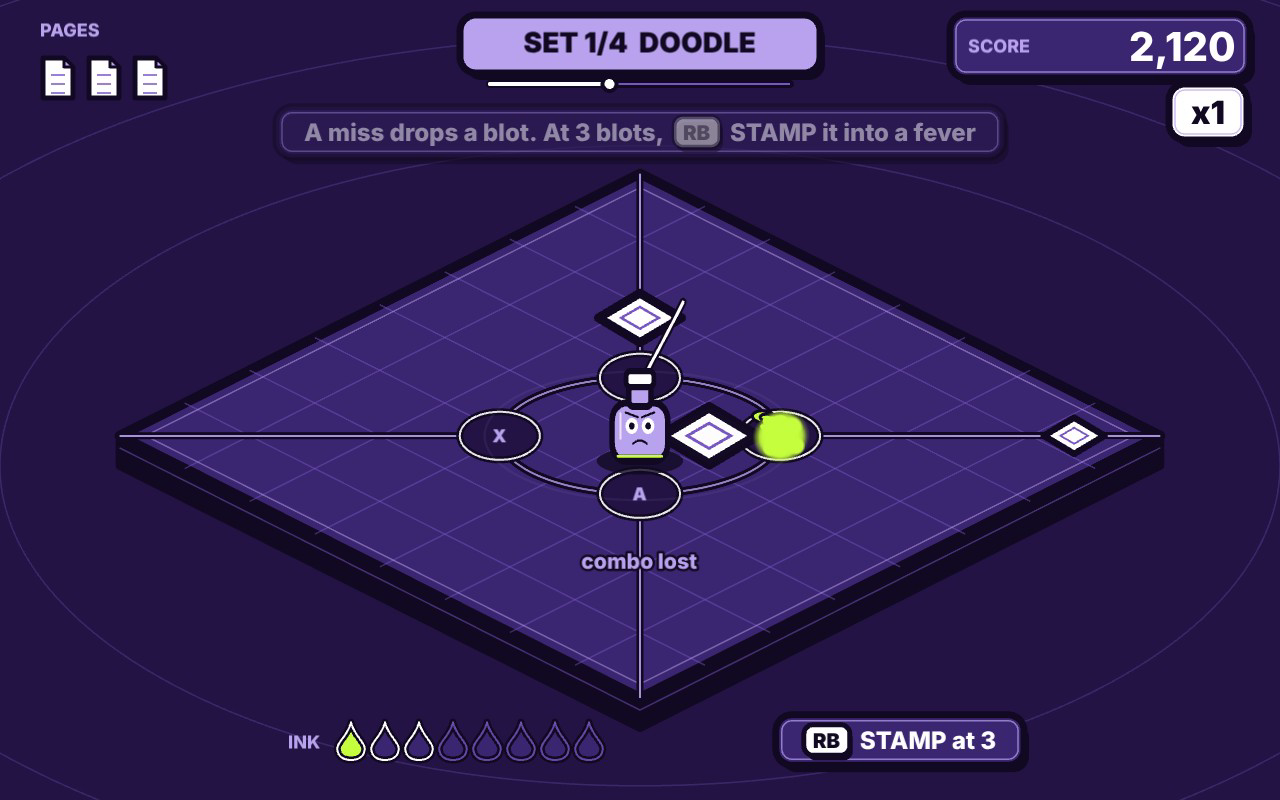
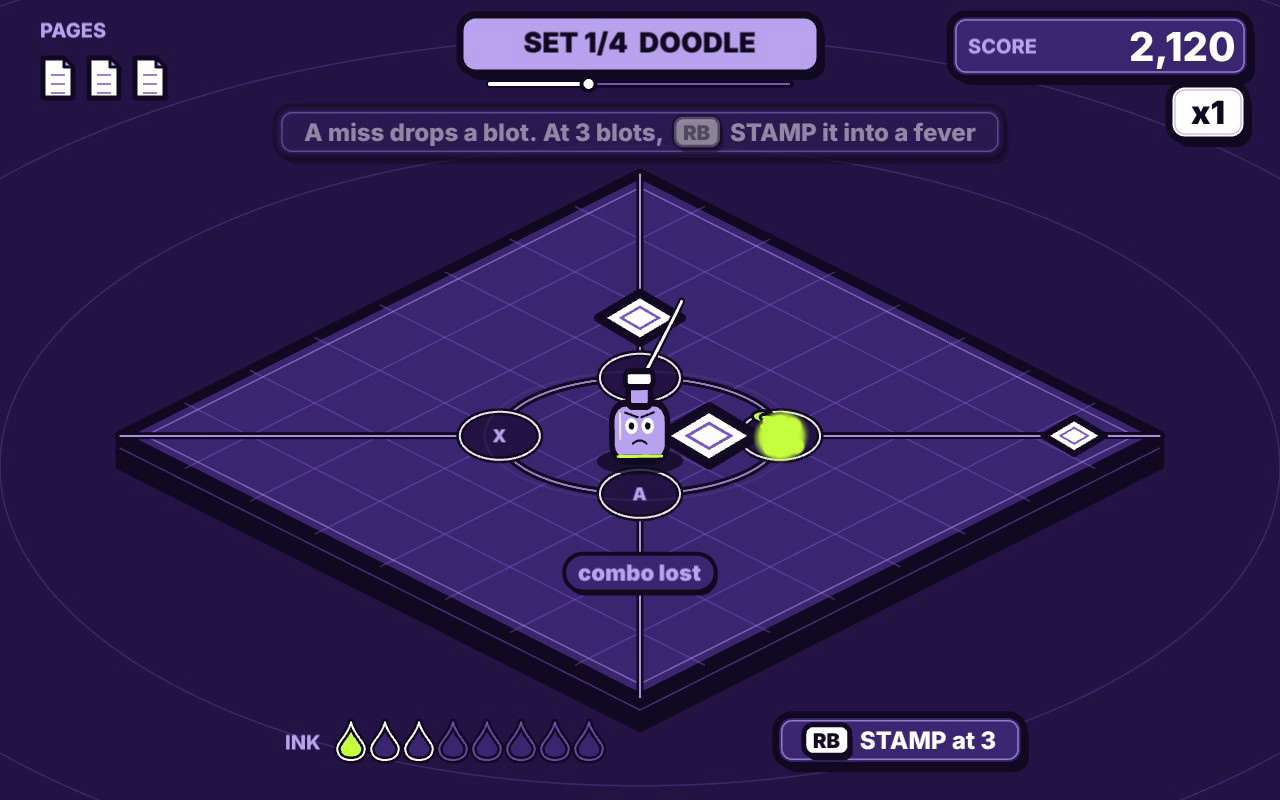
Blot Beat: pill feedback badges, tidy sets, juice-off crash fix, docs, final media
Claude-Session: https://claude.ai/code/session_011JBjUs38wG625x8qBQpJpi

diff --git a/src/protos/2026-10-30-blotbeat/index.ts b/src/protos/2026-10-30-blotbeat/index.ts
@@ -95,6 +95,24 @@ export function createPrototype(): Prototype {
 
   /** Run `fn` after `ms` on the juice clock (a tween on a dummy target, so it never collides with tweens on real objects). */
   const later = (ms: number, fn: () => void) => tween({ v: 0 }, { v: 1 }, ms, ease.linear, { onComplete: fn });
+  /** A feedback pill: text on a small ink-outlined badge that pops, rises and fades (feedback is part of the sticker UI, not loose text). */
+  function badgePop(text: string, x: number, y: number, fill: number, color: number, size = 22, ms = 560, rise = 34): void {
+    const c = new Container();
+    const t = label(text, size, color, { weight: '900' });
+    const w = t.width + 28;
+    const h = size * 1.7;
+    const g = new Graphics();
+    g.roundRect(-w / 2 + 2, -h / 2 + 4, w, h, h / 2).fill(C.ink);
+    g.roundRect(-w / 2, -h / 2, w, h, h / 2).fill(fill).stroke({ width: 4, color: C.ink, join: 'round' });
+    c.addChild(g, t);
+    c.position.set(x, y);
+    c.scale.set(0.4);
+    world.addChild(c);
+    tween(c, { scale: 1 }, 130, ease.outBack);
+    // one tween owns the destroy; the fade finishes before it so nothing touches a destroyed badge
+    tween(c, { y: y - rise }, ms, ease.outCubic, { onComplete: () => c.destroy() });
+    later(ms * 0.5, () => { if (!c.destroyed) tween(c, { alpha: 0 }, ms * 0.4, ease.linear); });
+  }
   const D = () => LANE_DIR;
   const FRAME_DT = 1 / 60;
 
@@ -345,7 +363,7 @@ export function createPrototype(): Prototype {
 
   function buildHud(): void {
     // pages (top left)
-    const pl = label('PAGES', 18, C.tint, { anchor: [0, 0.5] });
+    const pl = label('PAGES', 20, C.tint, { anchor: [0, 0.5] });
     pl.position.set(40, 30);
     ui.addChild(pl);
     pageIcons = [];
@@ -372,7 +390,7 @@ export function createPrototype(): Prototype {
     scoreText = label('0', 40, C.white, { anchor: [1, 0.5] });
     scoreText.position.set(1236, 46);
     ui.addChild(scoreText);
-    const scl = label('SCORE', 18, C.tint, { anchor: [0, 0.5] });
+    const scl = label('SCORE', 20, C.tint, { anchor: [0, 0.5] });
     scl.position.set(968, 46);
     ui.addChild(scl);
     comboText = label('', 22, C.tint, { anchor: [1, 0.5] });
@@ -403,7 +421,7 @@ export function createPrototype(): Prototype {
     dropGs = [];
     const gap = Math.min(34, 460 / dropsMax);
     const x0 = 430 - ((dropsMax - 1) * gap) / 2 + 40;
-    const lab = label('INK', 18, C.tint, { anchor: [1, 0.5] });
+    const lab = label('INK', 20, C.tint, { anchor: [1, 0.5] });
     lab.position.set(x0 - 30, 742);
     dropsC.addChild(lab);
     for (let i = 0; i < dropsMax; i++) {
@@ -443,7 +461,7 @@ export function createPrototype(): Prototype {
       stampKey = key;
       stampC.removeChildren().forEach((c) => c.destroy());
       let plate: Container;
-      if (fever) plate = hintPlate([`FEVER x${bal('feverMult')}`], 26, C.lime), plate.children.length;
+      if (fever) plate = hintPlate([`FEVER x${bal('feverMult')}`], 26, C.lime);
       else if (locked) plate = hintPlate(['Ink drying...'], 22, C.board);
       else plate = hintPlate([{ key: glyph('rb') }, ready ? 'STAMP!' : `STAMP at ${st.cost}`], 24, ready ? C.lime : C.board);
       if (fever) { const t = plate.children[plate.children.length - 1] as ReturnType<typeof label>; t.style.fill = C.ink; }
@@ -603,7 +621,7 @@ export function createPrototype(): Prototype {
     feverG.visible = feverG.alpha > 0.02;
     latticeFever.visible = latticeFever.alpha > 0.02;
     latticeFever.alpha = chase(latticeFever.alpha, s.feverT > 0 ? 0.7 + 0.3 * Math.sin(time * 10) : 0, 0.25);
-    wellC.rotation = danger ? Math.sin(time * 30) * 0.03 : 0;
+    wellC.rotation = danger ? Math.sin(time * 30) * 0.03 : Math.sin(time * 1.6) * 0.012;
     if (s.inkBand >= 2) eyes.setMood('worried', 0.2); else if (s.feverT > 0) eyes.setMood('happy', 0.2);
     for (let l = 0; l < 4; l++) {
       const t = targetLabels[l]!;
@@ -687,6 +705,17 @@ export function createPrototype(): Prototype {
     const hint = hintPlate([{ key: glyph('a') }, 'Stick it on', { key: glyph('lb') }, { key: glyph('rb') }, 'Choose'], 24);
     hint.position.set(CX, 690);
     o.addChild(hint);
+    if (s.lastTidy) {
+      const tp = sticker(520, 56, C.white, 16);
+      const tl = label(s.lastTidy === 'page' ? 'TIDY SET! Three blots or fewer: a page is back' : 'TIDY SET! Three blots or fewer: bonus 2,500', 24, C.ink, { weight: '900' });
+      const tc = new Container();
+      tc.addChild(tp, tl);
+      tc.position.set(CX, 168);
+      tc.rotation = 0.02;
+      tc.scale.set(0.2);
+      o.addChild(tc);
+      tween(tc, { scale: 1 }, 320, ease.outBack, { delay: 250 });
+    }
     o.name = 'pick';
     (o as Container & { cards: Container[] }).cards = cards;
     ui.addChild(o);
@@ -807,7 +836,9 @@ export function createPrototype(): Prototype {
       streaks[lane]!.alpha = grade === 'perfect' ? 0.9 : 0.55;
       const g = targets[lane]!.children[0] as Graphics;
       flash(g as unknown as Container, 0xffffff, 120);
-      if (!auto) numberPop(world, grade.toUpperCase(), x + d.x * 72, y + d.y * 56 - 6, { size: grade === 'perfect' ? 28 : 22, color: grade === 'perfect' ? C.white : C.tint, stroke: C.ink, rise: 34, ms: 520, font: FONT });
+      const early = Number(e.data?.early ?? 0);
+      const tag = grade === 'perfect' ? '' : early > 0.03 ? ' (early)' : early < -0.03 ? ' (late)' : '';
+      if (!auto) badgePop(grade.toUpperCase() + tag, x + d.x * 96, y + d.y * 70 - 6, grade === 'perfect' ? C.white : grade === 'good' ? C.tint : C.line, grade === 'ok' ? C.white : C.ink, grade === 'perfect' ? 24 : 20);
     };
     if (delay > 0) tween({ v: 0 }, { v: 1 }, delay, ease.linear, { onComplete: fire }); else fire();
     wellSS.pop(0.1 + 0.1 * m, 'y');
@@ -848,11 +879,11 @@ export function createPrototype(): Prototype {
         play('holdDone', { pan: D()[lane]!.x * 0.3 });
         particles.emit('confetti', e.x ?? CX, e.y ?? CY, { count: 12, speed: 0.8 });
         ringPulse(e.x ?? CX, e.y ?? CY, 90, C.white, 400, 5);
-        numberPop(world, 'HELD', (e.x ?? CX) + D()[lane]!.x * 72, (e.y ?? CY) + D()[lane]!.y * 56, { size: 24, color: C.white, stroke: C.ink, ms: 520, font: FONT });
+        badgePop('HELD', (e.x ?? CX) + D()[lane]!.x * 96, (e.y ?? CY) + D()[lane]!.y * 70, C.white, C.ink, 22);
         shake(0.08);
         break;
       }
-      case 'hold-drop': play('holdDrop'); numberPop(world, 'DROPPED', e.x ?? CX, (e.y ?? CY) - 20, { size: 20, color: C.line, stroke: C.white, ms: 520, font: FONT }); break;
+      case 'hold-drop': play('holdDrop'); badgePop('DROPPED', e.x ?? CX, (e.y ?? CY) - 20, C.board, C.white, 20); break;
       case 'free-tap': {
         const lane = Number(dd.lane);
         play(`tap${lane}`, { volume: 0.25, pitch: 1, variation: 0.02, pan: D()[lane]!.x * 0.3 });
@@ -865,7 +896,7 @@ export function createPrototype(): Prototype {
         play('stray');
         shake(0.12);
         punch(targets[Number(dd.lane)]!, -0.2);
-        numberPop(world, 'STRAY', e.x ?? CX, (e.y ?? CY) - 24, { size: 20, color: C.line, stroke: C.white, ms: 420, font: FONT });
+        badgePop('STRAY', e.x ?? CX, (e.y ?? CY) - 28, C.board, C.white, 20);
         eyes.setMood('frown', 0.4);
         break;
       }
@@ -905,12 +936,12 @@ export function createPrototype(): Prototype {
         numberPop(world, `x${mult}`, CX, CY - 150, { size: 54, color: C.white, stroke: C.ink, ms: 700, rise: 40, font: FONT });
         break;
       }
-      case 'combo-break': numberPop(world, 'combo lost', CX, CY + 130, { size: 22, color: C.tint, stroke: C.ink, ms: 520, rise: 20, font: FONT }); break;
+      case 'combo-break': badgePop('combo lost', CX, CY + 140, C.board, C.tint, 22, 700, 16); break;
       case 'dry': play('dry'); break;
       case 'siphon': {
         play('glug', { pitch: 1.3 });
         particles.emit('sparks', e.x ?? CX, e.y ?? CY, { count: 14, color: C.lime, speed: 1.4 });
-        numberPop(world, 'SIPHON', (e.x ?? CX), (e.y ?? CY) - 40, { size: 24, color: C.lime, stroke: C.ink, ms: 700, font: FONT });
+        badgePop('SIPHON', e.x ?? CX, (e.y ?? CY) - 44, C.lime, C.ink, 22, 700);
         break;
       }
       case 'stamp': {
@@ -963,6 +994,11 @@ export function createPrototype(): Prototype {
         const left = Number(dd.pages);
         banner('PAGE RUINED', C.lime, C.ink, 1700, 196, left > 0 ? `${left} ${left === 1 ? 'page' : 'pages'} left. The ink is cleared.` : 'No pages left.');
         syncMusic();
+        break;
+      }
+      case 'tidy': {
+        play('holdDone', { pitch: 1.5 });
+        particles.emit('confetti', CX, CY - 30, { count: 36, speed: 1.6 });
         break;
       }
       case 'set-end': {
@@ -1059,7 +1095,7 @@ export function createPrototype(): Prototype {
       score: Math.round(s.score), hits: s.hits, perfects: s.perfects, misses: s.misses, strays: s.strays, stamps: s.stamps,
       spills: s.spills, blots: s.blots, maxCombo: s.maxCombo, setReached: s.set + 1,
       accuracy: s.notesTotal ? s.hits / s.notesTotal : 0, pagesLeft: s.pages, notesTotal: s.notesTotal, feverScore: Math.round(s.feverScore),
-      drips: s.drips, scoreOrProgress: Math.round(s.score) + s.set * 1000,
+      drips: s.drips, tidySets: s.tidySets, scoreOrProgress: Math.round(s.score) + s.set * 1000,
     }),
     getState() {
       const o: Record<string, number> = {

diff --git a/src/protos/2026-10-30-blotbeat/sim.ts b/src/protos/2026-10-30-blotbeat/sim.ts
@@ -176,6 +176,9 @@ export interface SimState {
   holdsDone: number;
   freeTaps: number;
   setsDone: number;
+  setMisses: number;
+  tidySets: number;
+  lastTidy: string;
   feverScore: number;
   stampLastSet: number;
 }
@@ -213,7 +216,7 @@ export function createSim() {
     s.laneDown = [false, false, false, false]; s.laneHold = [-1, -1, -1, -1];
     s.endT2 = 0;
     s.hits = s.perfects = s.goods = s.oks = s.misses = s.strays = s.stamps = s.spills = s.blots = 0;
-    s.notesTotal = 0; s.holdsDone = 0; s.freeTaps = 0; s.setsDone = 0; s.feverScore = 0; s.stampLastSet = 0;
+    s.notesTotal = 0; s.holdsDone = 0; s.freeTaps = 0; s.setsDone = 0; s.feverScore = 0; s.stampLastSet = 0; s.setMisses = 0; s.tidySets = 0; s.lastTidy = '';
     s.notes = [];
     startSet(0);
   }
@@ -227,6 +230,8 @@ export function createSim() {
     s.phase = 'play';
     s.ink = 0; s.inkBand = 0; s.feverT = 0; s.restUntil = -1; s.graceUntil = -1; s.strayInk = 0; s.strayAt = -9; s.stampLock = -1e9; s.dripAt = 0;
     s.stampLastSet = 0;
+    s.setMisses = 0;
+    s.lastTidy = '';
     s.laneHold = [-1, -1, -1, -1];
     const chart = makeChart(ctx.rng.fork(), s.cfg);
     s.notes = chart.map((c) => ({ id: nextId++, lane: c.lane, t: c.beat * s.beatDur, len: c.len * s.beatDur, state: 'live' as NoteState, pair: false }));
@@ -359,6 +364,7 @@ export function createSim() {
         emit({ type: 'free-tap', magnitude: 0.2, x: p.x, y: p.y, data: { lane } });
       } else {
         s.strays++;
+        s.setMisses++;
         s.strayAt = s.setT;
         breakCombo();
         s.strayInk += 1;
@@ -466,6 +472,7 @@ export function createSim() {
       if (jt() > n.t + WIN.ok * w) {
         n.state = 'missed';
         s.misses++;
+        s.setMisses++;
         const p = laneRing(n.lane);
         breakCombo();
         emit({ type: 'miss', magnitude: 0.5, x: p.x, y: p.y, data: { lane: n.lane, free: s.setT < s.graceUntil } });
@@ -477,6 +484,12 @@ export function createSim() {
     // set end
     if (s.setT > s.endT) {
       s.setsDone++;
+      if (s.setMisses <= 3) {
+        // clean play has its own reward: a lost page comes back, or a bonus if the book is already full
+        s.tidySets++;
+        if (s.pages < s.pagesMax) { s.pages++; s.lastTidy = 'page'; } else { s.score += 2500; s.lastTidy = 'bonus'; }
+        emit({ type: 'tidy', magnitude: 0.8, data: { reward: s.lastTidy, blots: s.setMisses } });
+      }
       emit({ type: 'set-end', magnitude: 0.7, data: { set: s.set } });
       if (s.set >= SETS.length - 1) {
         s.phase = 'won';

diff --git a/src/protos/2026-10-30-blotbeat/sounds.ts b/src/protos/2026-10-30-blotbeat/sounds.ts
@@ -23,11 +23,11 @@ export function defineBlotSounds(): void {
   defineSound('stray', { wave: 'square', freq: 130, slide: -0.7, attack: 0.001, sustain: 0.03, decay: 0.12, lowpass: 900, transient: 0.2, volume: 0.35 });
   defineSound('splat', { wave: 'noise', freq: 600, slide: -1.6, attack: 0.001, sustain: 0.04, decay: 0.26, lowpass: 1100, transient: 0.4, volume: 0.55 });
   defineSound('glug', { wave: 'sine', freq: 160, slide: 1.8, attack: 0.003, sustain: 0.04, decay: 0.16, volume: 0.45 });
-  defineSound('stampBoom', { wave: 'sine', freq: 80, slide: -1.1, attack: 0.002, sustain: 0.12, decay: 0.55, transient: 0.6, volume: 0.95 });
-  defineSound('stampCrack', { wave: 'noise', freq: 900, slide: -0.8, attack: 0.001, sustain: 0.06, decay: 0.4, lowpass: 3600, volume: 0.6 });
+  defineSound('stampBoom', { wave: 'sine', freq: 80, slide: -1.1, attack: 0.002, sustain: 0.12, decay: 0.55, transient: 0.5, volume: 0.62 });
+  defineSound('stampCrack', { wave: 'noise', freq: 900, slide: -0.8, attack: 0.001, sustain: 0.06, decay: 0.4, lowpass: 3600, volume: 0.4 });
   defineSound('stampRise', { wave: 'saw', freq: 180, slide: 2.4, attack: 0.01, sustain: 0.12, decay: 0.3, lowpass: 3000, volume: 0.35 });
-  defineSound('spill', { wave: 'noise', freq: 700, slide: -0.9, attack: 0.002, sustain: 0.3, decay: 0.9, lowpass: 1300, transient: 0.5, volume: 0.8 });
-  defineSound('spillDrop', { wave: 'saw', freq: 340, slide: -1.6, attack: 0.002, sustain: 0.2, decay: 0.7, lowpass: 1400, volume: 0.45 });
+  defineSound('spill', { wave: 'noise', freq: 700, slide: -0.9, attack: 0.002, sustain: 0.3, decay: 0.9, lowpass: 1300, transient: 0.4, volume: 0.6 });
+  defineSound('spillDrop', { wave: 'saw', freq: 340, slide: -1.6, attack: 0.002, sustain: 0.2, decay: 0.7, lowpass: 1400, volume: 0.3 });
   defineSound('feverEnd', { wave: 'sine', freq: 700, slide: -1.4, attack: 0.002, sustain: 0.05, decay: 0.32, volume: 0.3 });
   defineSound('comboUp', { wave: 'sine', freq: 660, attack: 0.002, sustain: 0.05, decay: 0.3, volume: 0.3 });
   defineSound('holdDone', [{ wave: 'sine', freq: 1318, attack: 0.002, sustain: 0.1, decay: 0.45, volume: 0.35 }]);

diff --git a/tests/unit/proto-2026-10-30-blotbeat.test.ts b/tests/unit/proto-2026-10-30-blotbeat.test.ts
@@ -149,6 +149,28 @@ describe('sim rules', () => {
     expect(s.ink).toBeGreaterThanOrEqual(1);
     expect(s.misses).toBeLessThan(3);
   });
+  it('a clean set is tidy: a lost page returns, or a bonus is paid when the book is full', () => {
+    const play = (lose: boolean) => {
+      const { s, step } = freshSim(7);
+      if (lose) s.pages = s.pagesMax - 1;
+      const btn = ['y', 'b', 'a', 'x'] as const;
+      let guard = 0;
+      while (s.phase === 'play' && guard++ < 60 * 200) {
+        const n = s.notes.find((m) => m.state === 'live' && m.len === 0);
+        const input = blankInput();
+        if (n && Math.abs(n.t - s.setT) < 1 / 120) input.buttons[btn[n.lane]!] = { down: true, pressed: true, released: false, value: 1 };
+        step(input);
+      }
+      return s;
+    };
+    const full = play(false);
+    expect(full.phase).toBe('pick');
+    expect(full.tidySets).toBe(1);
+    expect(full.lastTidy).toBe('bonus');
+    const hurt = play(true);
+    expect(hurt.lastTidy).toBe('page');
+    expect(hurt.pages).toBe(hurt.pagesMax);
+  });
   it('balance knobs change the sim', () => {
     expect(BALANCE.length).toBeGreaterThanOrEqual(3);
     expect(BALANCE.length).toBeLessThanOrEqual(8);

diff --git a/runs/2026-10-30-blotbeat/postmortem.md b/runs/2026-10-30-blotbeat/postmortem.md
@@ -1,0 +1,18 @@
+# Post mortem: Blot Beat (2026-10-30-blotbeat)
+Question and target feeling: does a rhythm game where every miss becomes spendable ink make mistakes feel like fuel while keeping real tension about how much ink to carry? Cheeky, flowing controlled mess: the relief of a big stamp after nearly overflowing.
+What shipped: a four-lane rhythm game on an isometric ink-desk (Y/B/A/X or stick flicks, taps then holds then doubles over four sets). A miss drops a blot that flies into the inkwell; RB stamps all of it into a fever (x2 score, misses cost half, the board is auto-hit), too much ink spills a page (3 pages, a real run end), from set 3 a half-full well leaks, clean sets win a page back, and a sticker is picked between sets.
+Rounds: 4 rounds and 1 step-back before wrap. R1 core economy (stamp spam made fever a free pass, spill cleared the whole chart: both fixed). R2 look and readability (taller board, double-note shape, timing offset knob, tests). Step-back: pressure was only "misses", so holding ink cost nothing, which led to the leak, lane streaks, beat ring, pictogram stickers and the win power-up. R3 found a tween bug that hid every prompt plate, and a headless fps problem. R4 closed the mash loophole (a stray now costs a blot), lengthened the sets and added count-in numbers, then Tidy Set.
+Core before polish: the bare economy was run with sim-only bots before any drawing existed; it was not run with juice off in a browser (untested). Judged by bot spread: idle fails at 29 s, random 32 s, stamp-only 79 s, mash 72 s, sloppy (79% accurate) finishes at 52k, greedy (92%) at 96k.
+Did it work (honest read): feel checklist by my count 36 pass, 1 fail (no trails on notes), 4 n/a (hit-stop on purpose, camera, coyote/buffer equivalents), 15 untested (every [Slone] item and real-hardware fps). Shakiest: music-to-note sync, difficulty, and whether the sounds read as playing the song.
+Measured (telemetry): five seeds each. Greedy 92% accuracy, 31 misses, 5 stamps, 0 spills, max combo 55, 0.8 tidy sets, 4.2 drips. Sloppy 79%, 102 misses, 19 stamps, 0 spills. Novice 70%, 143 misses, 18 stamps, 0.8 spills. Input to audio 14 ms. Frame rate: 8 fps in headless software GL (the trivial fixture runs 59 there); one full-screen layer costs about 90 ms in that renderer. Real-hardware fps is NOT measured.
+Believed (labeled): the stamp should feel good, the leak should make "hold or cash in" a real choice, the offset knob will be needed. I cannot play or hear the build, so none of this is verified.
+Degenerate strategies found: stamp-only farming (fixed by a stamp lock and half ink in fever), mashing all lanes (fixed: strays cost a blot and break the combo). A sticker-less greedy run still never spills, so the economy is easy for precise play.
+What I cut or ran out of time for: song select, latency calibration screen, mines or other note kinds, cross-run unlocks, trails on notes, juice-off browser run, more than three picks.
+Surprises: see runs/2026-10-30-blotbeat/surprises.md. Biggest: the real game appeared only once the leak existed (carry more ink for a longer fever, or cash in). No pivot was needed.
+Biggest risk for Slone to check: timing feel. If hits feel early or late against the music, change Timing offset first (EARLY/LATE tags show on non-perfect hits).
+Reusable tech proposed to main: none code. Doc note proposed: the juice tween manager replaces a tween on the same property, so a delayed second tween on one property cancels the first (use a dummy-target delay).
+Assets sourced: all synthesized (sounds and music generated in code, no third-party assets).
+Theme picked and why: self-authored "Every mistake leaves a mark that later becomes a tool" because the night's roll was already used by the previous night on the same date and the script refused a second one (the roll guard is per calendar date).
+Themes added: none. The script refused (the 3-per-date cap was already used by the earlier night dated 2026-10-30). Candidates for Slone to add: "The thing you spend is also the measure of how badly you are doing" (system); "A store that only leaks while you are holding too much of it" (system).
+Next time (one data point): when failure produces the player's power resource, add a relief-valve cost and a second pressure that punishes hoarding, or the optimal play is to cash in on reflex.
+Run health: preflight failed once on missing node_modules (npm install fixed it); `themes.mjs roll` and `add` both refused because the earlier night used the same calendar date, so the theme is self-authored (logged, not hidden) and no themes were added; I staged 6.9 MB of screenshots by accident and untracked them before any push; no files opened outside the allowed set, no other nights' branches or theme files read; software-GL fps only (no GPU in the sandbox); one attempt to run three browser captures at once failed from contention and two at once, or one, were clean for complete runs; no infrastructure blockers.

diff --git a/docs/design/pending-lessons.md b/docs/design/pending-lessons.md
@@ -107,3 +107,15 @@ Entry template is in `docs/design/04-feedback-and-postmortem.md` section 5.
 - Evidence: Slone: "Replace one of the tower types with one that has a healing AOE. Make the shape language say that. A heart or plus ... have it 'send' health to friendly towers in range. In fact do an overhaul of the tower types. They should be meaningfully different and the way they look, animate, behave should make their 'thing' obvious after you've played with it a bit."
 - Proposed atoms (Slone decides): v-heal-allies: a unit sends health to hurt friendly units in range; f-role-readable-units: each unit type's one job is stated by shape, idle animation and behaviour.
 - Process note: Slone's feedback came as short chat messages while the game was open; each was applied to the game directly (his requests are the answer to the update-or-not question) and the lesson recorded here.   Status: one data point
+
+## 2026-10-30 2026-10-30-blotbeat
+- Lesson: When failure produces the player's power resource, the economy needs a relief valve cost (a lock after spending, a halved gain while powered) or a bot that never plays can survive by cashing in on reflex; a second pressure that punishes hoarding (a leak while the store is over half full) is what makes "cash in now or carry more" a real decision.   Status: one data point
+- Evidence: the stamp-only bot survived all four sets with the first economy; with a six-beat lock and half ink in fever it fails at about 79 s, and the "hold or cash in" choice appeared only once the leak existed (runs/2026-10-30-blotbeat/surprises.md).
+- Proposed Bible change: section 6 (stakes), add "if failure feeds the player's power, make spending it cost something and give hoarding a price, or the loop collapses to cashing in" (Slone decides).
+- Lesson: Anything that freezes simulation time (a hit pause) breaks timing against a fixed-time external clock such as music; use shake, flash and particles there instead.   Status: one data point
+- Evidence: reasoning from the build (the stamp used no hit-stop on purpose); not yet confirmed by play.
+- Lesson: Reward clean play with something that mirrors what mistakes buy, or the skilled player has no forward pressure of their own (here a clean set returns a page, and one sticker lets perfect streaks charge the power moment).   Status: one data point
+- Evidence: greedy bot stamped 5 times a run while a 70% bot stamped 18 times, so the power moment belonged to the sloppy player until the Tidy Set reward and Ink Siphon sticker existed.
+- Proposed atoms (Slone decides): v-spend-your-failures: misses become a resource you spend; p-leak-while-rich: a store leaks into the pressure meter while it is over half full; l-clean-run-restores: a clean stretch returns something lost.
+- Process note: `themes.mjs roll` allows one roll per calendar date, so a second night on the same date (this one followed `2026-10-30-stillwinter`) got no rolled theme and the agent had to write its own, which defeats the injected randomness. Suggest keying the guard to the night id rather than the date.   Status: one data point
+- Tech note: the juice tween manager replaces a tween on the same property, so `tween(x, {alpha: 1})` followed by a delayed `tween(x, {alpha: 0}, ..., {delay})` silently cancels the fade-in (every prompt plate was invisible until a screenshot showed it). A line in `SCAFFOLD_API.md` would save the next night the hour.

diff --git a/runs/2026-10-30-blotbeat/feedback-sheet.md b/runs/2026-10-30-blotbeat/feedback-sheet.md
@@ -1,0 +1,25 @@
+PROTOTYPE: Blot Beat (2026-10-30-blotbeat)
+
+THE QUESTION THIS BUILD TESTS (written before you played):
+Does a rhythm game where every miss becomes spendable ink make mistakes feel like fuel, while keeping real tension about how much ink to carry?
+TARGET FEELING: cheeky, flowing controlled mess: the relief of a big stamp after nearly overflowing
+
+TARGETED QUESTIONS:
+1. Did a miss ever feel like fuel rather than punishment? When? (yes / kind of / no)
+2. Did you hold ink on purpose for a bigger fever, or stamp the moment it lit up? Did the leak (from set 3) change that?
+3. Could you tell what each note kind wanted (tap, hold, double) the first time you saw it?
+4. Did your hits feel like playing the music, or like noise on top of it? Did hits feel early or late (Timing offset knob: pause menu, Balance)?
+5. Which sticker did you pick first, and did it change how you played?
+
+CONSTANTS (every night, so we can compare over time):
+A. First minute: did it feel good to just move/act before anything else? yes / kind of / no
+B. The moment you almost quit (when, or "never"):
+C. What pulled you back in (a moment, a verb, a sound):
+D. About how long did you play?
+E. Replay tomorrow? yes / maybe / no
+F. Sound: did any sound feel wrong or missing? which?
+G. Feel: too little juice / about right / too much (and which layer)
+
+BALANCE KNOBS (pause menu, Balance): try Timing offset first, then Blots needed to stamp and Ink well size.
+
+FREEFORM (anything: surprises, feelings, "this reminded me of..."):

diff --git a/docs/design/ledger.md b/docs/design/ledger.md
@@ -9,3 +9,4 @@ The `genre:` tag lets the genre roll skip genres used in the last three nights. 
 ## Nights
 2026-10-29 | 2026-10-29-demo-ball | systemic | atoms: f-juice-forward, p-rising-tide | theme: scaffold smoke test (the original demo, now its own branch) | wildcard: none | genre: arcade survival | look: ember/circles and blobs/glow on dark | verdict: assessed (Slone: it was fun)
 2026-10-30 | 2026-10-30-stillwinter | content | atoms: v-place-build, l-recoverable-setback | theme: Time only moves when something breaks | wildcard: none | genre: tower defense | look: arctic/stars and spikes/dithered | verdict: pending
+2026-10-30 | 2026-10-30-blotbeat | content | atoms: f-juice-forward, l-roguelite-run | theme: Every mistake leaves a mark that later becomes a tool (self-authored: roll guard) | wildcard: none | genre: rhythm action | look: mono-plus-one/thin lines/thick outlines | verdict: pending
